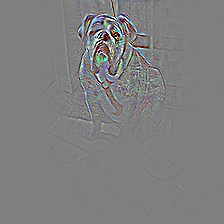
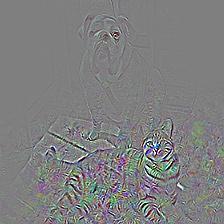
practice

diff --git a/gradcam.py b/gradcam.py
@@ -241,7 +241,7 @@ if __name__ == '__main__':
     # Can work with any model, but it assumes that the model has a
     # feature method, and a classifier method,
     # as in the VGG models in torchvision.
-    model = models.resnet50(pretrained=True)
+    model = models.resnext50_32x4d(pretrained=True)
     grad_cam = GradCam(model=model, feature_module=model.layer4, \
                        target_layer_names=["2"], use_cuda=args.use_cuda)
 
